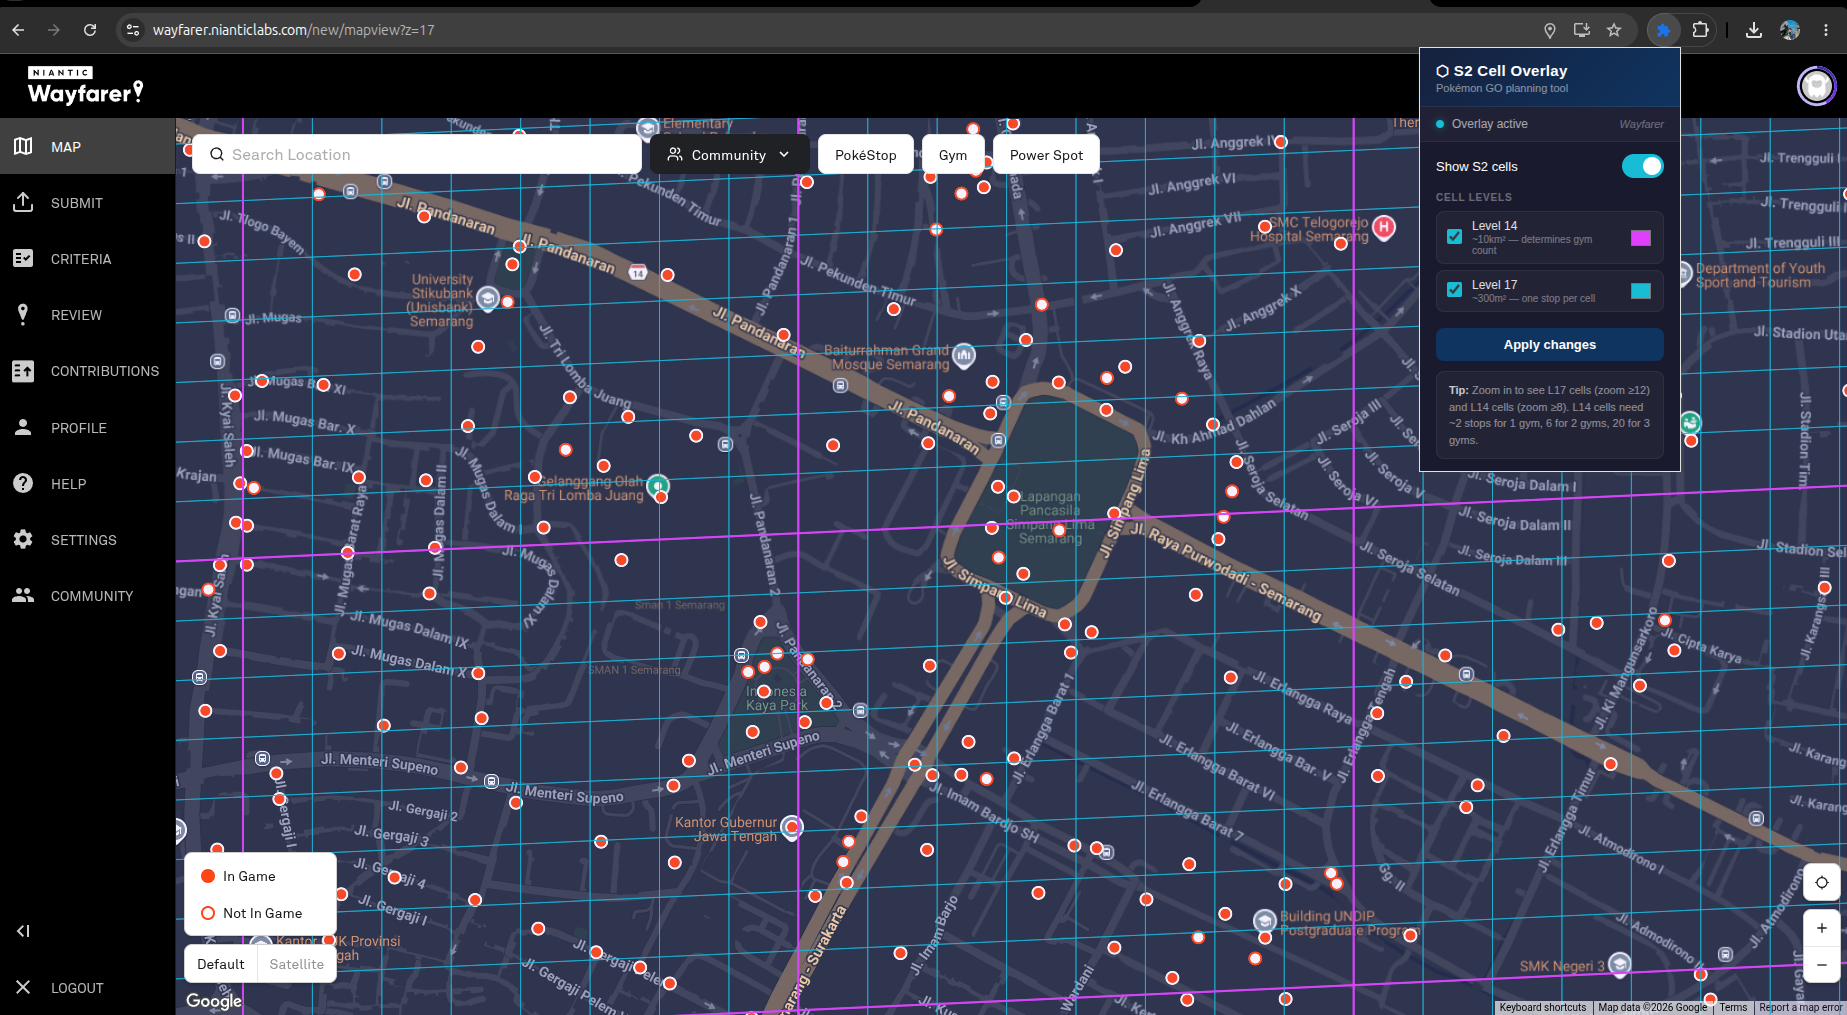
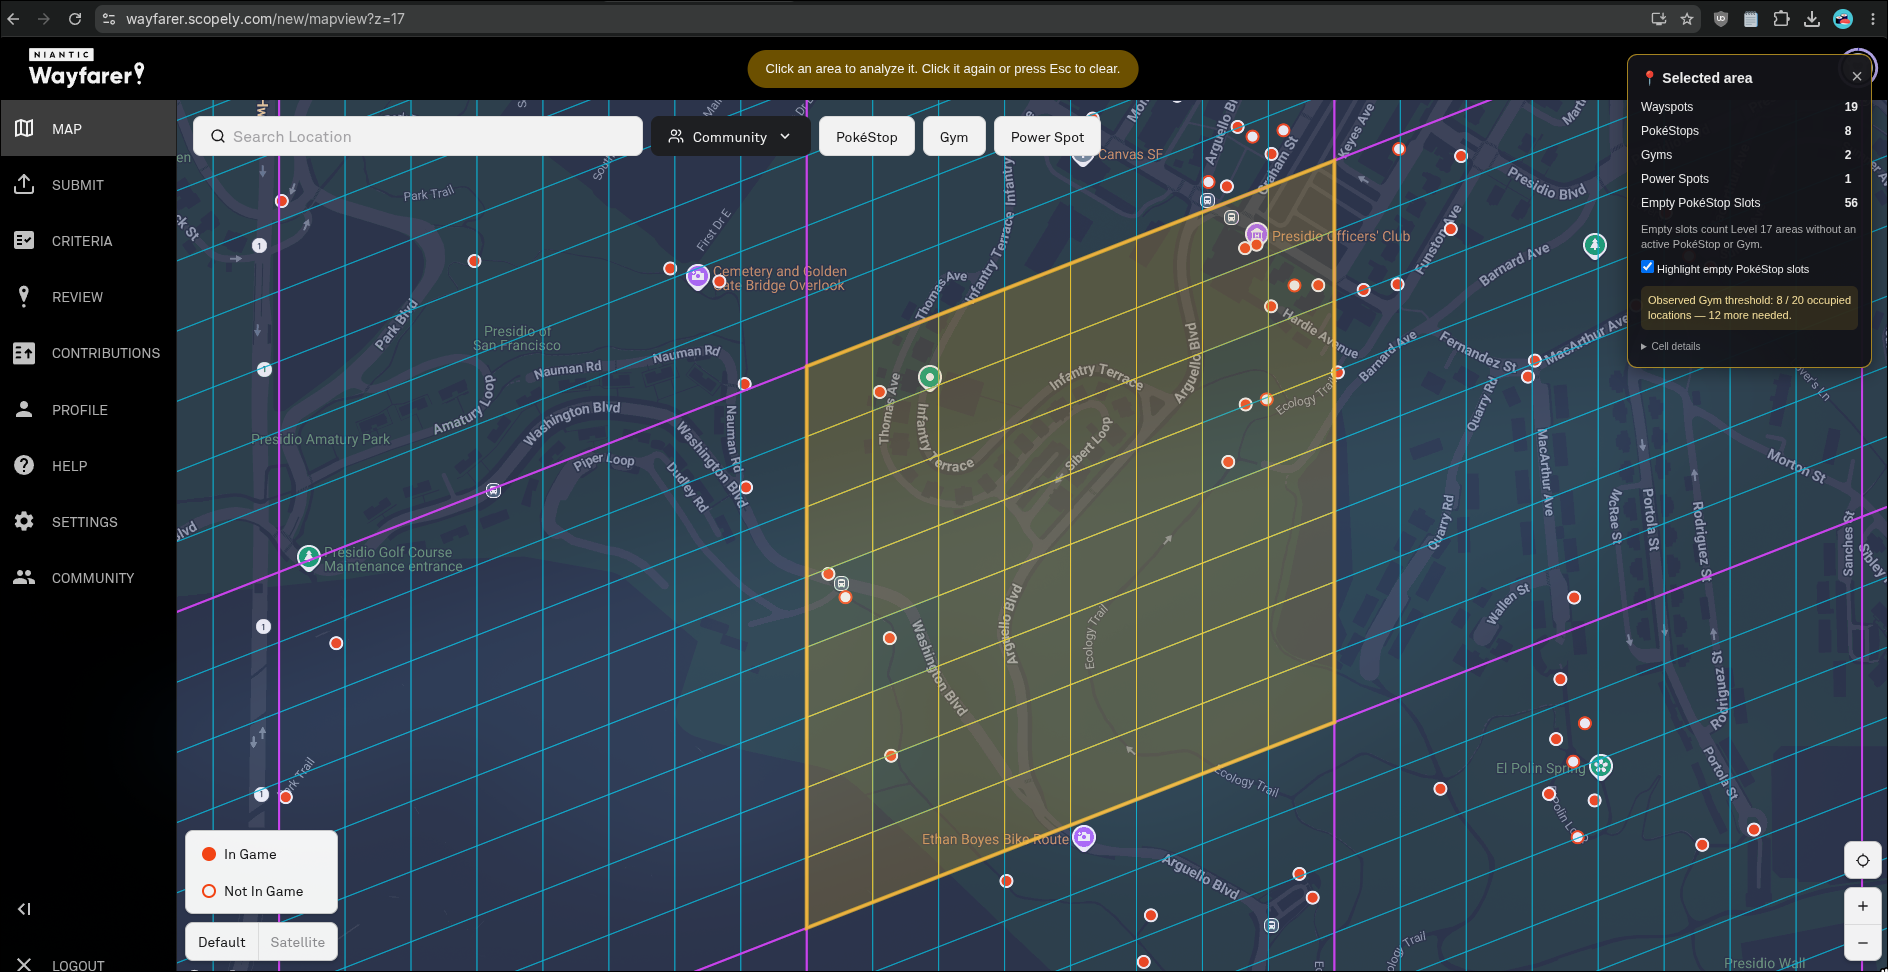
Showcase L14 analysis in README

diff --git a/README.md b/README.md
@@ -2,7 +2,11 @@
 
 A browser extension that overlays **S2 cells (Level 14 & Level 17)** directly on the [Scopely Wayfarer](https://wayfarer.scopely.com/new/mapview) map.
 
-![PokéStop & Gym Planning Grid screenshot](assets/screenshot.png)
+## Feature showcase
+
+Select an L14 area to highlight its S2 boundaries and view live Wayspot, PokéStop, Gym, Power Spot, and empty PokéStop slot metrics in the planning panel.
+
+![Selected L14 area with Pokémon GO planning metrics](assets/screenshot.png)
 
 ## What are S2 cells?
 
